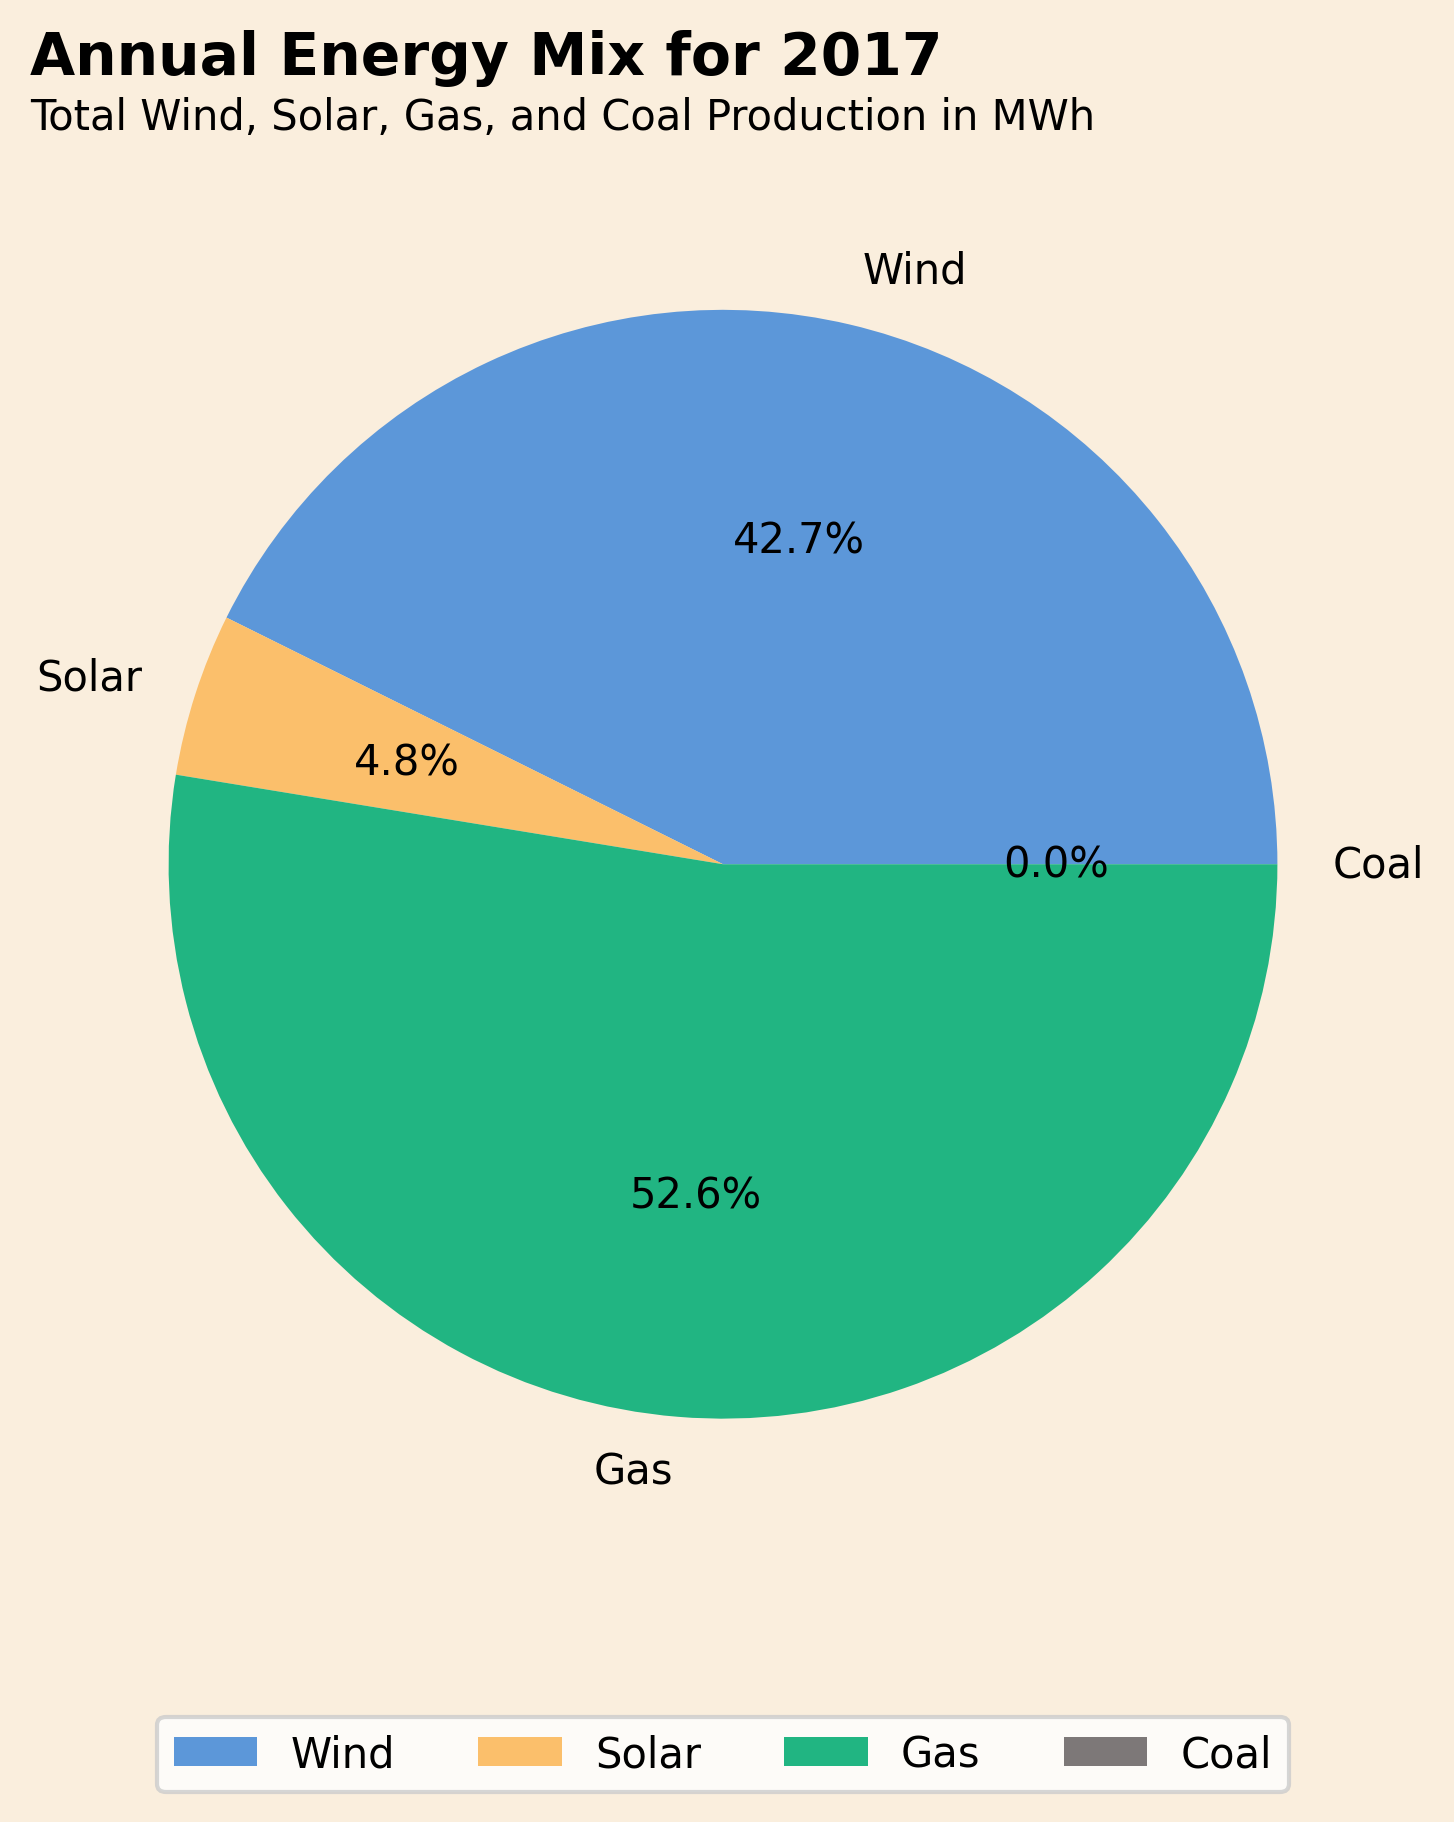
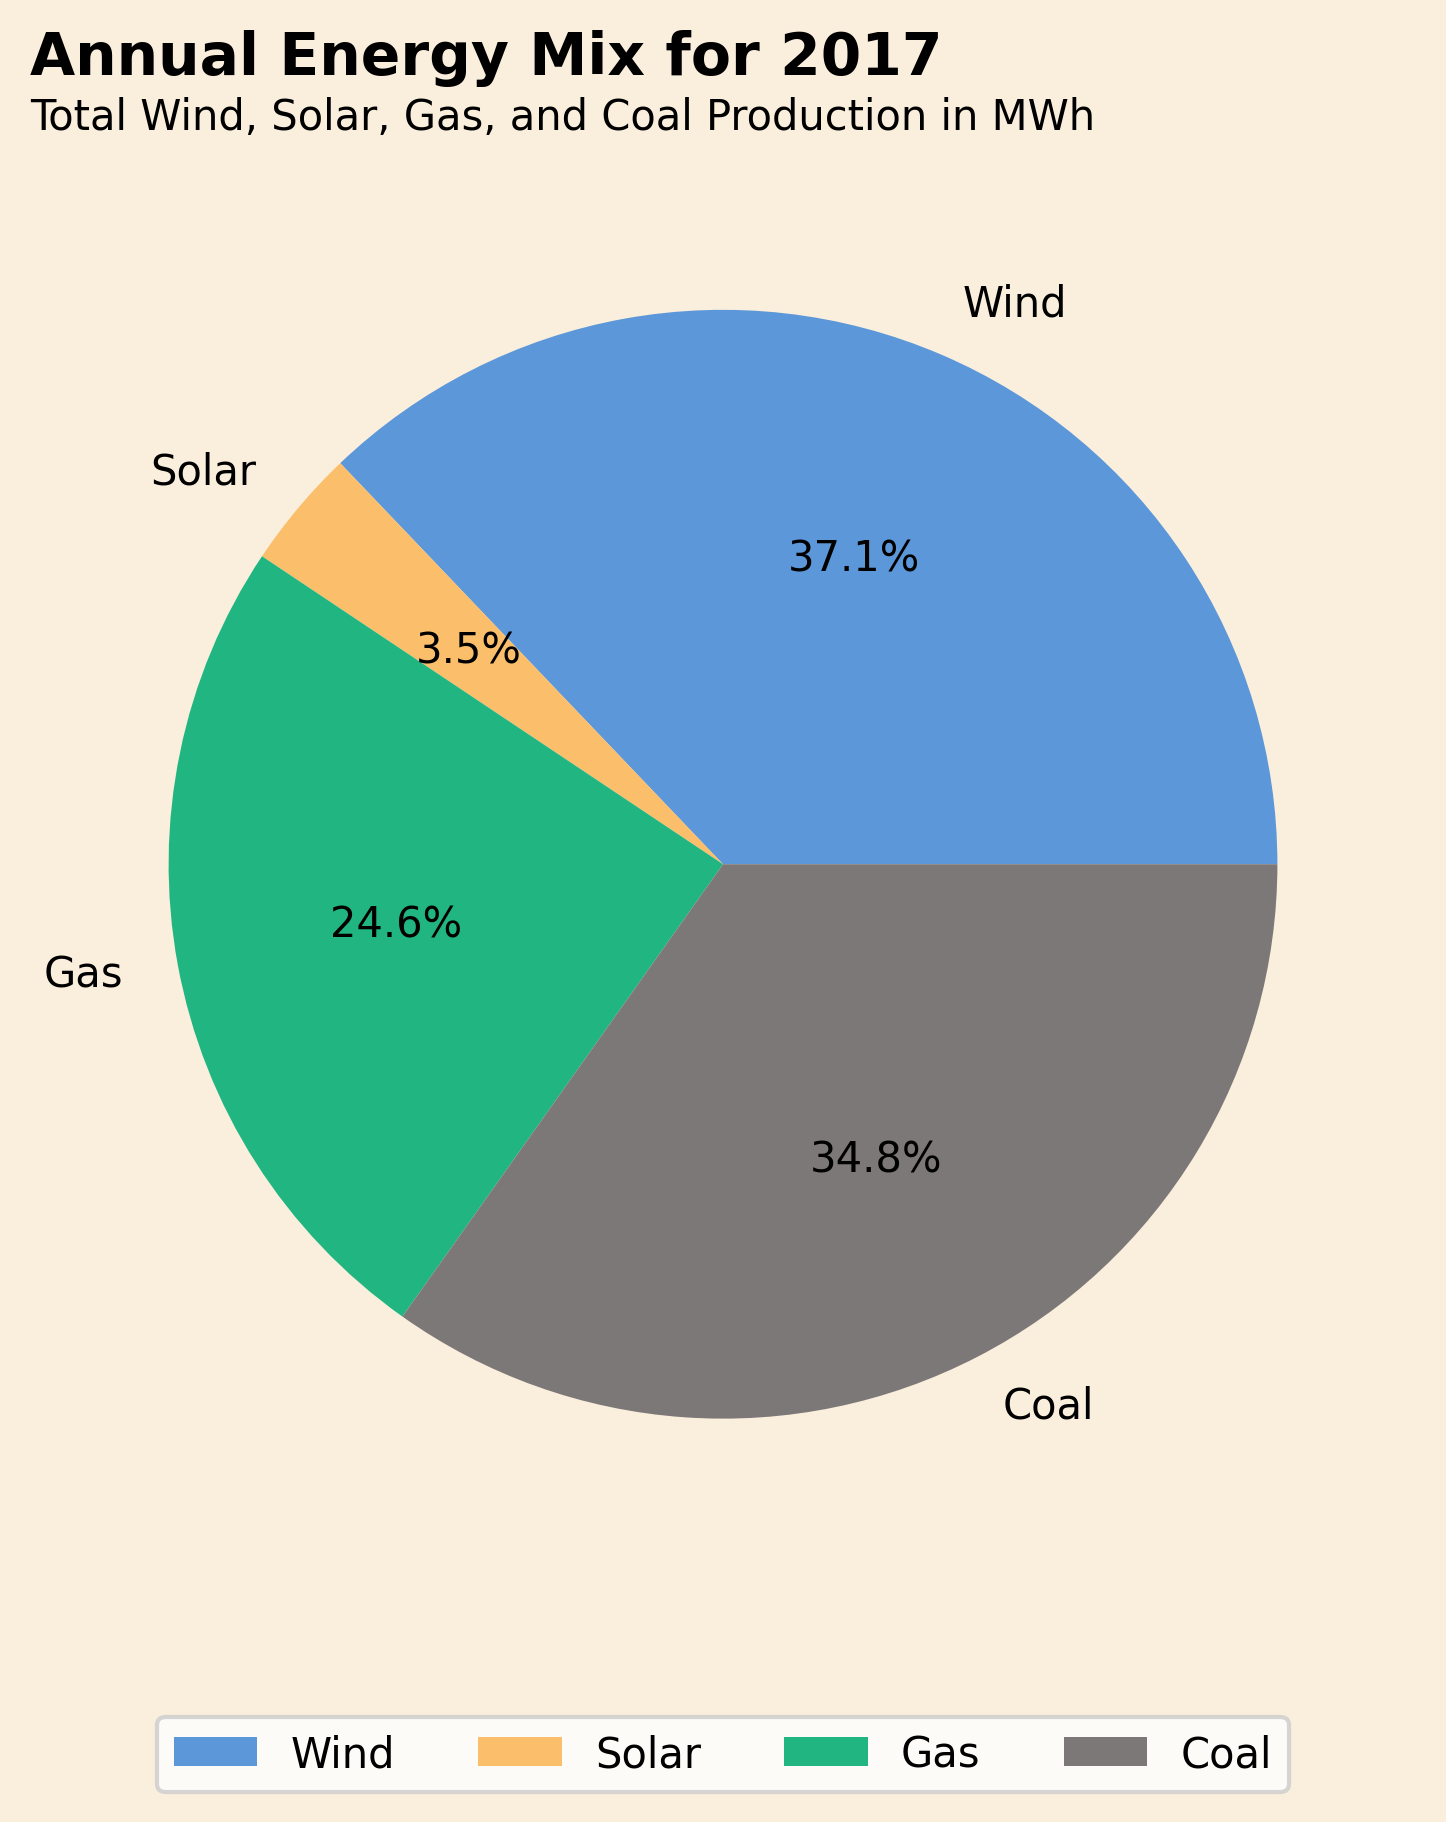
added real numbers and sources

diff --git a/network.py b/network.py
@@ -1,6 +1,6 @@
 import pandas as pd
 from data_loader import load_data
-from helper import annuity
+from helper import annuity, annualize
 import pypsa
 import gurobipy
 import matplotlib.pyplot as plt
@@ -37,8 +37,12 @@ class Network():
         self.network.add("Carrier", "Gas", co2_emissions=0.19)
         self.network.add("Carrier", "Coal", co2_emissions=1.0)
 
+        #TODO: Check numbers and find sources
         # Add network generators
-        capital_cost_wind = annuity(30,0.07)*910000*(1+0.033) # in €/MW
+        
+        # Onshore Wind
+        # https://www.sciencedirect.com/science/article/pii/S0196890419309835?via%3Dihub
+        capital_cost_wind = annuity(30,0.07)*910_000*(1+0.033) # in €/MW
         self.network.add("Generator", 
                     "Wind Generator", 
                     p_nom_extendable=True,
@@ -46,8 +50,10 @@ class Network():
                     carrier="Wind", 
                     capital_cost = capital_cost_wind,
                     p_max_pu=self.wind_cf.values)
-
-        capital_cost_solar = annuity(25,0.07)*425000*(1+0.03) # in €/MW
+        
+        # PV
+        # https://www.sciencedirect.com/science/article/pii/S0196890419309835?via%3Dihub
+        capital_cost_solar = annuity(25,0.07)*425_000*(1+0.03) # in €/MW
         self.network.add("Generator", 
                     "Solar Generator", 
                     p_nom_extendable=True,
@@ -55,8 +61,10 @@ class Network():
                     carrier="Solar", 
                     capital_cost = capital_cost_solar,
                     p_max_pu=self.solar_cf.values)
-
-        capital_cost_OCGT = annuity(25,0.07)*560000*(1+0.033) # in €/MW
+        
+        # OCGT Power Plant
+        # https://www.sciencedirect.com/science/article/pii/S0196890419309835?via%3Dihub
+        capital_cost_OCGT = annuity(25,0.07)*560_000*(1+0.033) # in €/MW
         fuel_cost = 21.6 # in €/MWh_th
         efficiency = 0.39 # MWh_elec/MWh_th
         marginal_cost_OCGT = fuel_cost/efficiency # in €/MWh_el
@@ -67,9 +75,12 @@ class Network():
                     carrier="Gas",
                     capital_cost = capital_cost_OCGT,
                     marginal_cost = marginal_cost_OCGT)
-
-        capital_cost_coal = annuity(25,0.07)*3711000*(1+0.033) # in €/MW
-        fuel_cost_coal = 15.0 # in €/MWh_th
+        
+        # Ignite Fired Power Plant
+        # https://www.econstor.eu/handle/10419/80348
+        over_night_cost_IFPP = annualize(1_400_000, 2012, 2017) # in €/MW
+        capital_cost_coal = annuity(25,0.07)*over_night_cost_IFPP*(1+0.033) # in €/MW
+        fuel_cost_coal = 12.6 # in €/MWh_th, source: https://ourworldindata.org/grapher/coal-prices
         efficiency_coal = 0.35 # MWh_elec/MWh_th
         marginal_cost_coal = fuel_cost_coal/efficiency_coal # in €/MWh_el
         
@@ -88,8 +99,10 @@ class Network():
 
     
     def add_storage(self):
-        #just some random numbers for now
-        capital_cost = annuity(20, 0.07) * 200000 
+        #TODO: Check numbers and find sources
+        # https://www.sciencedirect.com/science/article/pii/S0378775312014759?via%3Dihub
+        over_night_cost_battery = annualize(609_000, 2008, 2017) # in €/MW
+        capital_cost = annuity(15, 0.07) * over_night_cost_battery * (1 + 0.033) # in €/MW
         marginal_cost = 0.0
 
         efficiency_store = 0.9
